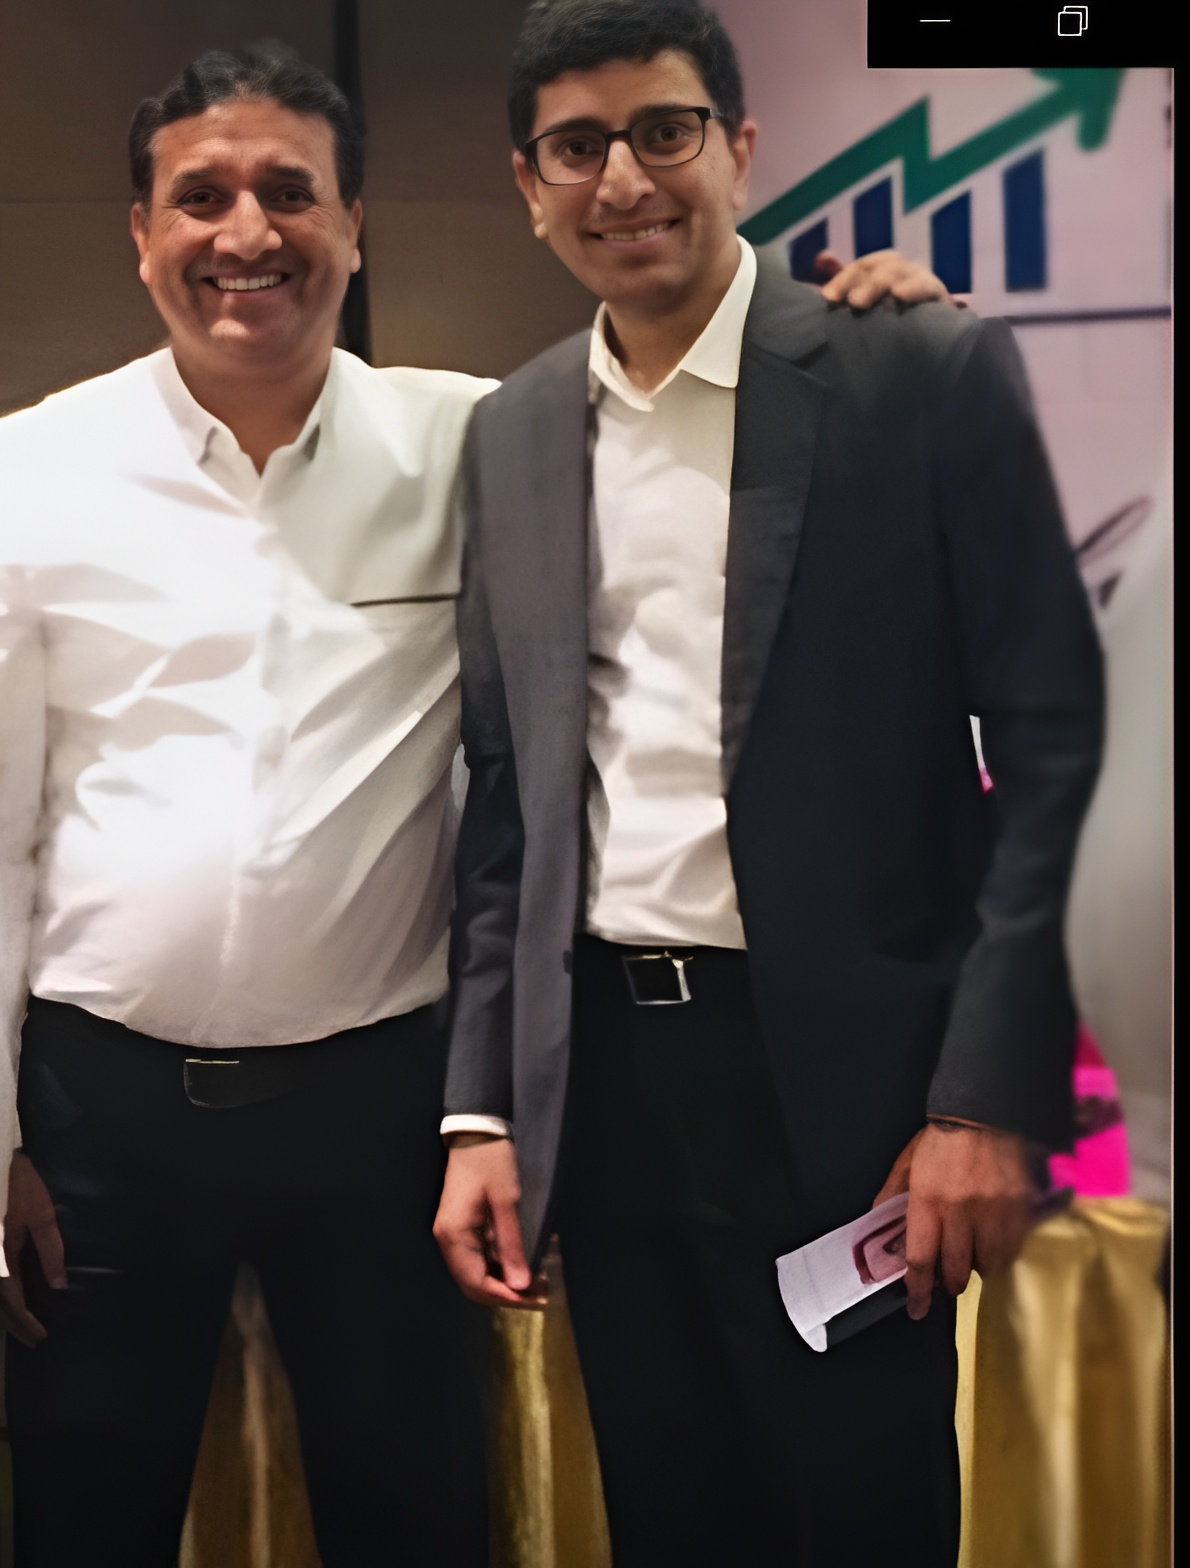
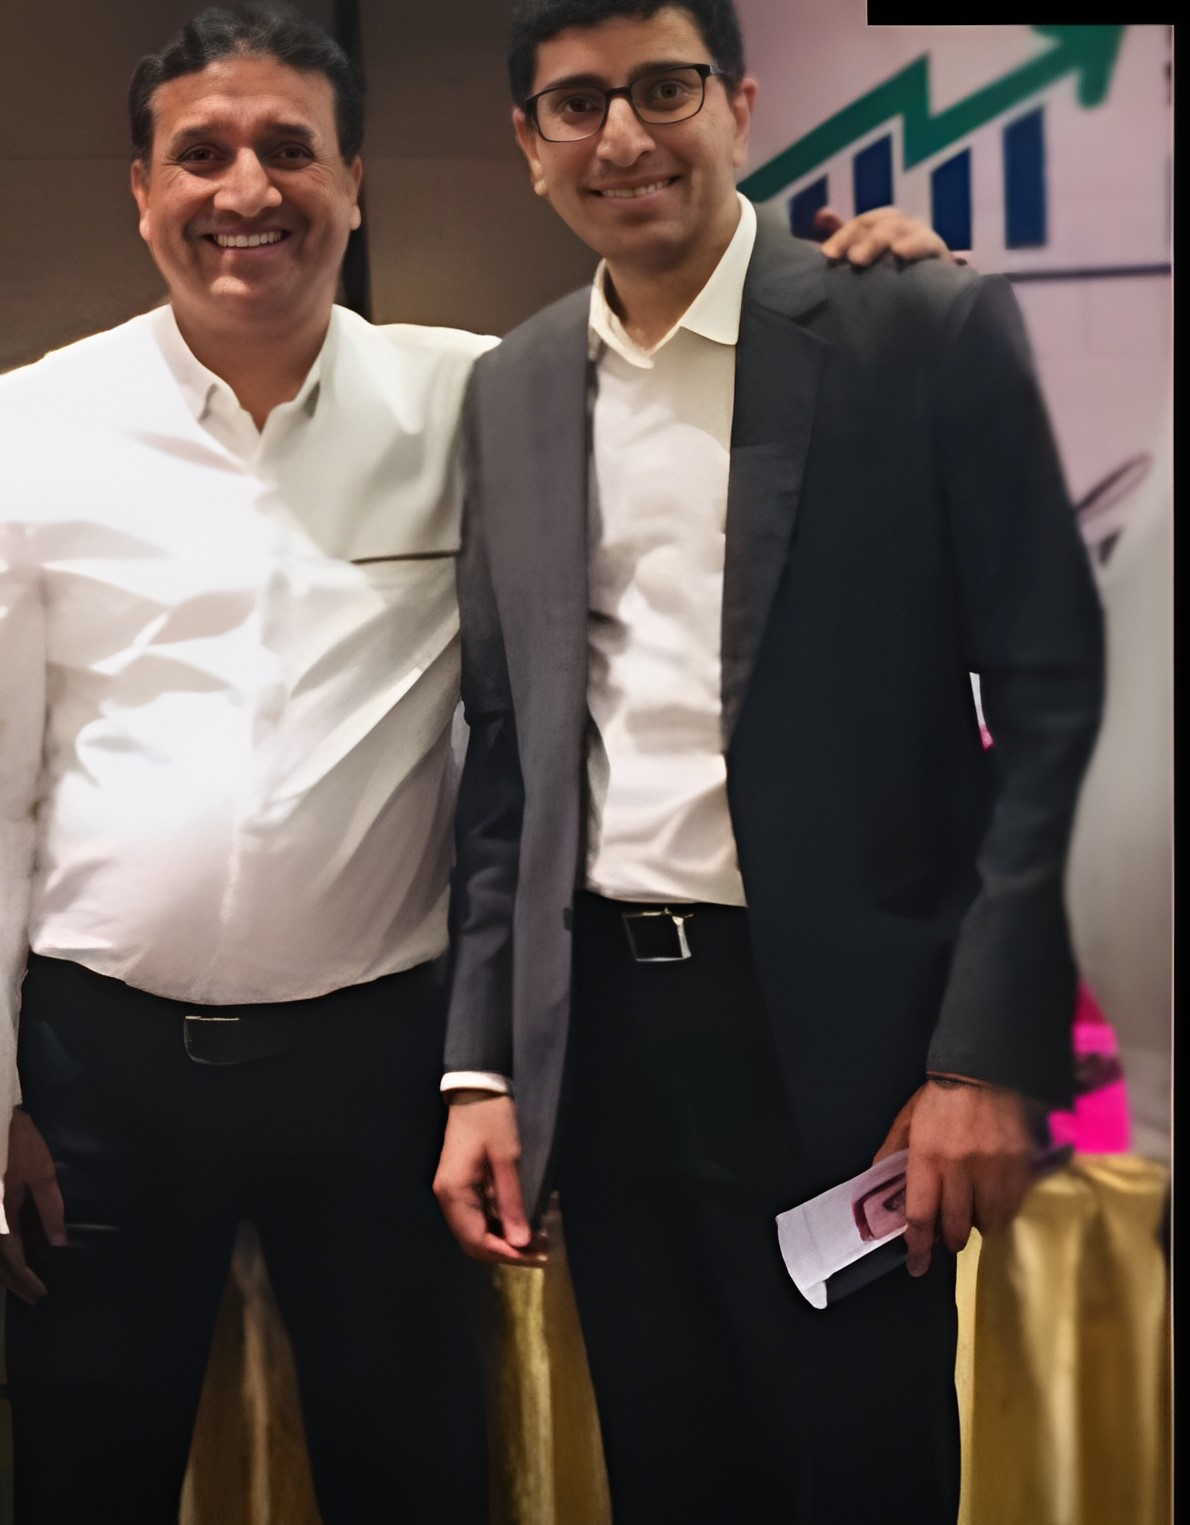
Update image styling in OfficeGallery component for improved visual presentation

diff --git a/src/components/OfficeGallery.tsx b/src/components/OfficeGallery.tsx
@@ -41,9 +41,7 @@ export default function OfficeGallery() {
 
         {/* 3-Image Strip Grid */}
         <div className="grid grid-cols-1 md:grid-cols-3 gap-8">
-
           {GALLERY_PHOTOS.map((photo, index) => (
-
             <motion.div
               key={photo.caption}
               initial={{ opacity: 0, y: shouldReduceMotion ? 0 : 20 }}
@@ -59,7 +57,7 @@ export default function OfficeGallery() {
                 <img
                   src={photo.src}
                   alt={photo.alt}
-                  className={`w-full h-full object-cover grayscale-[12%] group-hover:grayscale-0 group-hover:scale-105 transition-all duration-700 object-bottom`}
+                  className="w-full h-full object-cover object-top grayscale-[12%] group-hover:grayscale-0 group-hover:scale-105 transition-all duration-700"
                   referrerPolicy="no-referrer"
                 />
               </div>
@@ -69,9 +67,6 @@ export default function OfficeGallery() {
                 <p className="font-serif text-lg font-bold text-primary group-hover:text-accent transition-colors">
                   {photo.caption}
                 </p>
-                {/* <span className="text-[10px] font-sans tracking-widest uppercase text-charcoal/40 group-hover:text-accent/60 transition-colors">
-                  SECURE &amp; ALIGNED
-                </span> */}
               </div>
             </motion.div>
           ))}